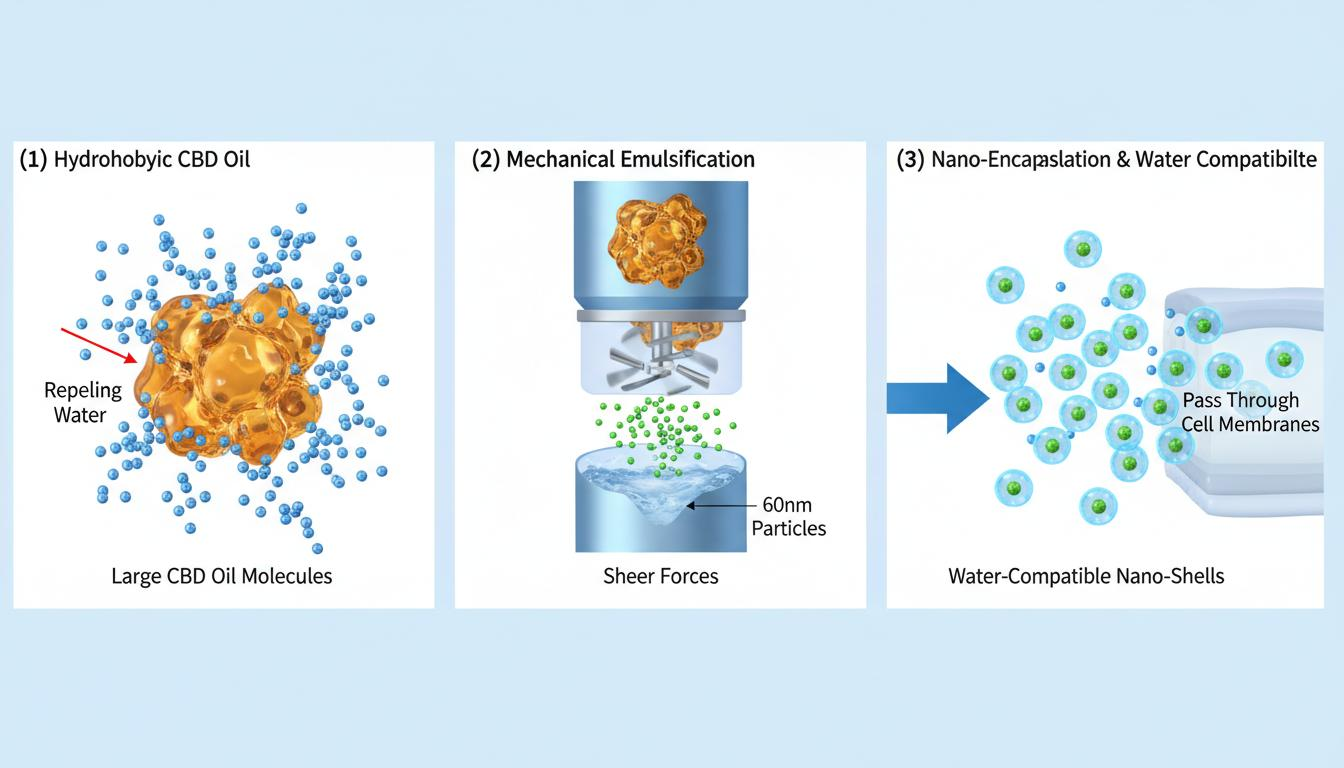
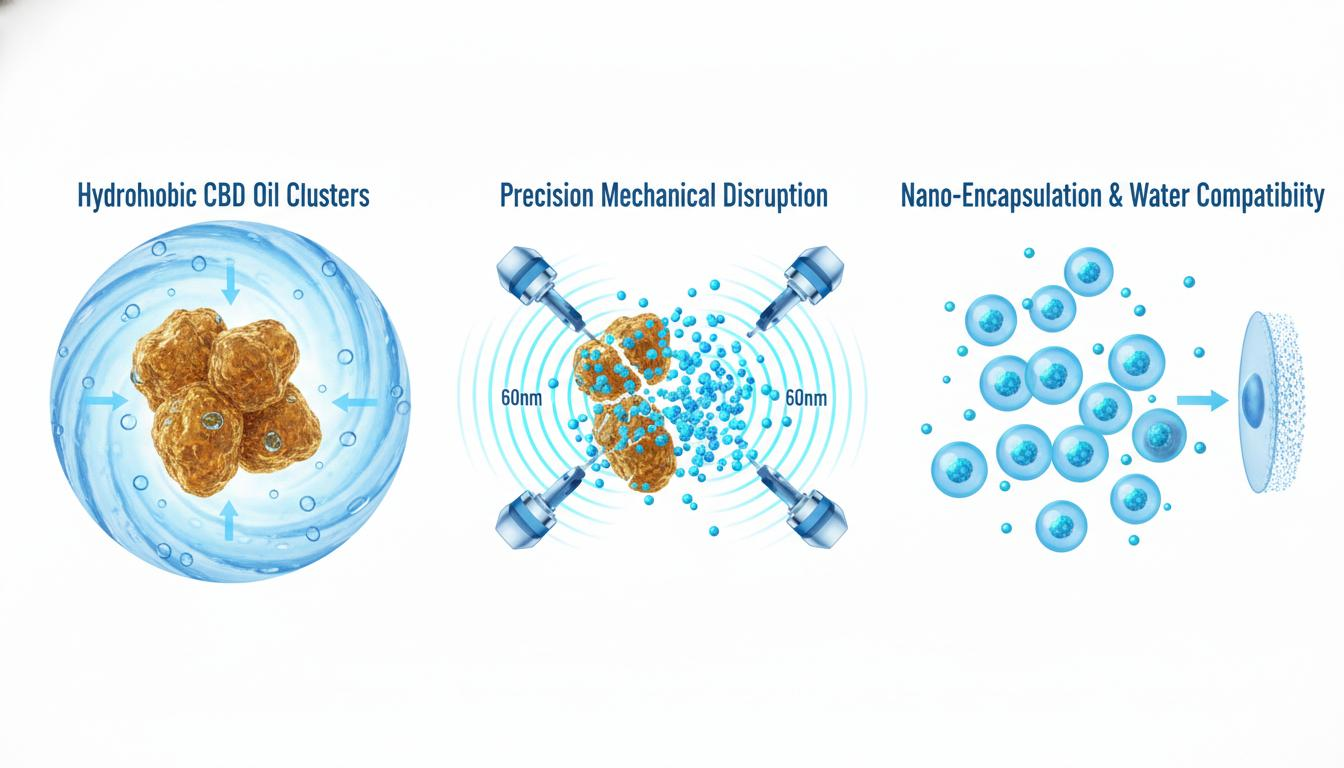
Fix: Replace emulsification with precision mechanical disruption. Regenerate science process image.

diff --git a/src/sections/Process.tsx b/src/sections/Process.tsx
@@ -5,7 +5,7 @@ const steps = [
   {
     num: '01',
     title: 'Mechanical Particle Reduction',
-    desc: 'Using proprietary high-shear forces, we break CBD clusters from ~2,000nm down to ~60nm — about 30x smaller than traditional oil droplets.',
+    desc: 'Using proprietary precision mechanical disruption, we break CBD clusters from ~2,000nm down to ~60nm — about 30x smaller than traditional oil droplets. No chemicals. No emulsifiers. Pure mechanical precision.',
   },
   {
     num: '02',